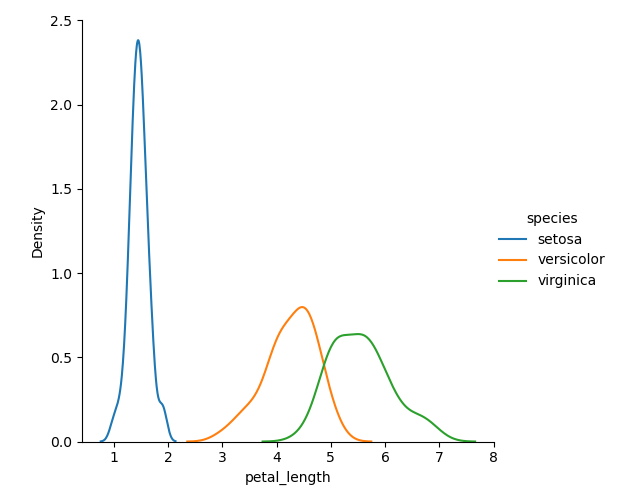
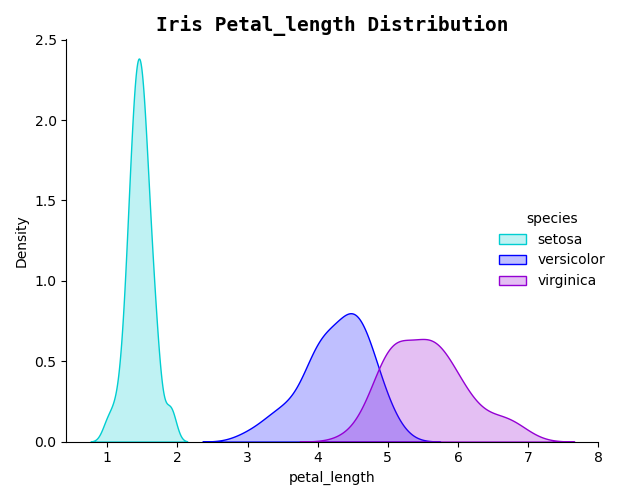
Project line kde

diff --git a/tanalysis 5.py b/tanalysis 5.py
@@ -378,34 +378,78 @@ plt.savefig("iris_scatterplot")
 
 # plt.show()
 plt.close("all")  
+'''
+# Line Chart 
 
+#palette = {"setosa": "darkturquoise",           # defining the colours for each species
+#        "versicolor": "blue", 
+#        "virginica": "darkviolet"
+#        }
 
-# Create a KDE line chart
+g = sns.FacetGrid(df,hue="species",height=5)
+g = g.map(sns.kdeplot, "sepal_length").add_legend()
+plt.tight_layout()  
+plt.savefig("iris_line_chart_sepal_length") 
 
-palette = {"setosa": "darkturquoise",                       # set the palette for Iris species
-        "versicolor": "blue",                               # set the palette for Iris species
-        "virginica": "darkviolet"}                          # set the palette for Iris species
+g = sns.FacetGrid(df,hue="species",height=5)
+g = g.map(sns.kdeplot, "sepal_width").add_legend()
+plt.tight_layout()  
+plt.savefig("iris_line_chart_sepal_width") 
 
-sns.set_palette(palette.values())                           # sets my palette above as Seaborn default kept overriding it.
+g = sns.FacetGrid(df,hue="species",height=5)
+g = g.map(sns.kdeplot, "petal_length").add_legend()
+plt.tight_layout()  
+plt.savefig("iris_line_chart_petal_length") 
 
-for feature in ["sepal_length",                             # loop through each variable
-                "sepal_width",                              # loop through each variable
-                "petal_length",                             # loop through each variable
-                "petal_width"]:                             # loop through each variable
-    g = sns.FacetGrid(df, hue="species", height=5)          # creates a line plot of the iris data, each grid is a different species. Species dictate the colour
-                                                            # Species dictate the colour
-                                                            
-    g = g.map(sns.kdeplot,                                  # maps a KDE plot 
-                feature,                                    # onto each grid 
-                shade=True,                                 # adds shade beneath the curve
-                palette=palette).add_legend()               # with the specified palette and a legend
-    
-    plt.title(f"Iris {feature.capitalize()} Distribution", 
-            fontsize=14,                                    # font size = controls the size of the font and sets it to 18.                       
-            fontweight="bold",                              # font weight = controls the weight of the font - bold                      
-            family="monospace")                             # family = controls the font family of the font - monospace)))
-    
-    plt.tight_layout()                                      # adjusts the layout of the plots 
-    plt.savefig(f"iris_line_chart_{feature}.png")           # saves each plot with a filename indicating the feature being plotted.
+g = sns.FacetGrid(df,hue="species",height=5)
+g = g.map(sns.kdeplot, "petal_width").add_legend()
+plt.tight_layout() 
+plt.savefig("iris_line_chart_petal_width") 
 
+#plt.show()             # Outputing all plots created above
+
+'''
+'''
+palette = {"setosa": "darkturquoise",           # defining the colours for each species
+        "versicolor": "blue", 
+        "virginica": "darkviolet"
+        }
+
+g = sns.FacetGrid(df,hue="species",height=5)
+g = g.map(sns.kdeplot, "sepal_length", palette=palette).add_legend()
+plt.tight_layout()  
+plt.savefig("iris_line_chart_sepal_length2") 
+
+g = sns.FacetGrid(df,hue="species",height=5)
+g = g.map(sns.kdeplot, "sepal_width", palette=palette).add_legend()
+plt.tight_layout()  
+plt.savefig("iris_line_chart_sepal_width2") 
+
+g = sns.FacetGrid(df,hue="species",height=5)
+g = g.map(sns.kdeplot, "petal_length", palette=palette).add_legend()
+plt.tight_layout()  
+plt.savefig("iris_line_chart_petal_length2") 
+
+g = sns.FacetGrid(df,hue="species",height=5)
+g = g.map(sns.kdeplot, "petal_width", palette=palette).add_legend()
+plt.tight_layout() 
+plt.savefig("iris_line_chart_petal_width2") 
+
+#plt.show()             # Outputing all plots created above
+'''
+
+palette = {"setosa": "darkturquoise",
+        "versicolor": "blue", 
+        "virginica": "darkviolet"}
+
+sns.set_palette(palette.values())
+
+# Create FacetGrid and map KDE plots with the specified palette
+for feature in ['sepal_length', 'sepal_width', 'petal_length', 'petal_width']:
+    g = sns.FacetGrid(df, hue="species", height=5)
+    g = g.map(sns.kdeplot, feature, palette=palette).add_legend()
+    plt.tight_layout()
+    plt.savefig(f"iris_line_chart_{feature}_2.png")
+
+# Uncomment the line below if you want to display all plots at once
 # plt.show()
